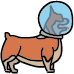
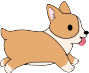
made the cutest corgi animations

diff --git a/src/scenes/Play.js b/src/scenes/Play.js
@@ -12,6 +12,9 @@ class Play extends Phaser.Scene {
         this.load.image('Player', './assets/player.png');
         this.load.image('Sliding', './assets/player_slide.png');
 
+        // texture atlas
+        this.load.atlas('corgi_anims', './assets/corgi_anims.png', './assets/corgi_anims.json');
+
 
         // Background
         this.load.image(
@@ -117,10 +120,19 @@ class Play extends Phaser.Scene {
         scene.floor.body.setImmovable(true);
     
         
+        // adds player animation
+        this.anims.create({
+            key: 'player',
+            frames: this.anims.generateFrameNames('corgi_anims', {prefix: 'corgi', end: 3, zeroPad: 2}),
+            repeat: -1,
+            frameRate: 12
+        });
+
         // adds player sprite
         scene.Player = scene.physics.add.sprite(game.config.width / 5, game.config.height - game.config.height / 3, 'Player').setOrigin(0.5, 1);
+        scene.Player.play('player');
         scene.Player.body.setGravityY(gameOptions.playerGravity);
-        scene.Player.setSize(74, 74);
+        scene.Player.setSize(89, 77);
 
         // setting up cursor keys
         scene.cursors = scene.input.keyboard.createCursorKeys();
@@ -152,7 +164,7 @@ class Play extends Phaser.Scene {
 
     update() {
         this.p1Score += this.scoreMulti;
-        this.score.text = Number((this.p1Score / 10).toFixed(0)) + 'm';
+        this.score.text = Number((this.p1Score / 15).toFixed(0)) + 'm';
 
         // space parallax 
         this.space_bg1.tilePositionX += back_speed;
@@ -160,7 +172,7 @@ class Play extends Phaser.Scene {
         this.space_bg3.tilePositionX += fore_speed;
         this.floor.tilePositionX += ground_speed;
 
-        if((this.p1Score / 10) % 250 == 0){
+        if((this.p1Score / 15) % 250 == 0){
             if(fore_speed < 6){
                 back_speed += 1;
                 mid_speed += 1;
@@ -183,8 +195,9 @@ class Play extends Phaser.Scene {
 
         if(Phaser.Input.Keyboard.JustDown(this.cursors.up) && this.numJumps > 0){
             this.sound.play("jump_sfx");
+            this.Player.stop();
             this.Player.setTexture('Sliding');
-            this.Player.setSize(95, 51);
+            this.Player.setSize(89, 55);
         }
 
         if(Phaser.Input.Keyboard.DownDuration(this.cursors.up, 200) && this.numJumps > 0){
@@ -198,15 +211,16 @@ class Play extends Phaser.Scene {
         }
 
         if(this.cursors.down.isDown && this.playerGrounded){
+            this.Player.stop();
             this.Player.setTexture('Sliding');
-            this.Player.setSize(95, 51);
+            this.Player.setSize(89, 55);
         }
         else if(this.cursors.down.isDown && !this.playerGrounded){
             this.Player.body.setGravityY(gameOptions.playerGravity * 3);
         }
-        else if(this.cursors.up.isUp && this.playerGrounded){
-            this.Player.setTexture('Player');
-            this.Player.setSize(70, 74);
+        else if(this.cursors.up.isUp && this.playerGrounded && !this.Player.anims.isPlaying){
+            this.Player.play('player');
+            this.Player.setSize(89, 77);
             this.Player.body.setGravityY(gameOptions.playerGravity);
         }
 
@@ -229,7 +243,10 @@ class Play extends Phaser.Scene {
 
         // create astroids every 15 meters
         if(randomNum % 157 == 0 && this.astroidGroup.getLength() < 5){
-            this.makeAstroidFunc(game.config.width + 55, Phaser.Math.Between(150, game.config.height - game.config.height / 5));
+            this.makeAstroidFunc(game.config.width + 55, Phaser.Math.Between(150, game.config.height / 2));
+        }
+        if(randomNum % 139 == 0 && this.astroidGroup.getLength() < 4){
+            this.makeAstroidFunc(game.config.width + 55, Phaser.Math.Between(game.config.height / 2, game.config.height - game.config.height / 5));
         }
 
         // destroys astroid if offscreen

diff --git a/src/main.js b/src/main.js
@@ -6,7 +6,7 @@ Collaborator Names:
     Divyansh Khare
 
 Game Title:
-    Untitled
+    
 
 Date Completed:
     TBD
